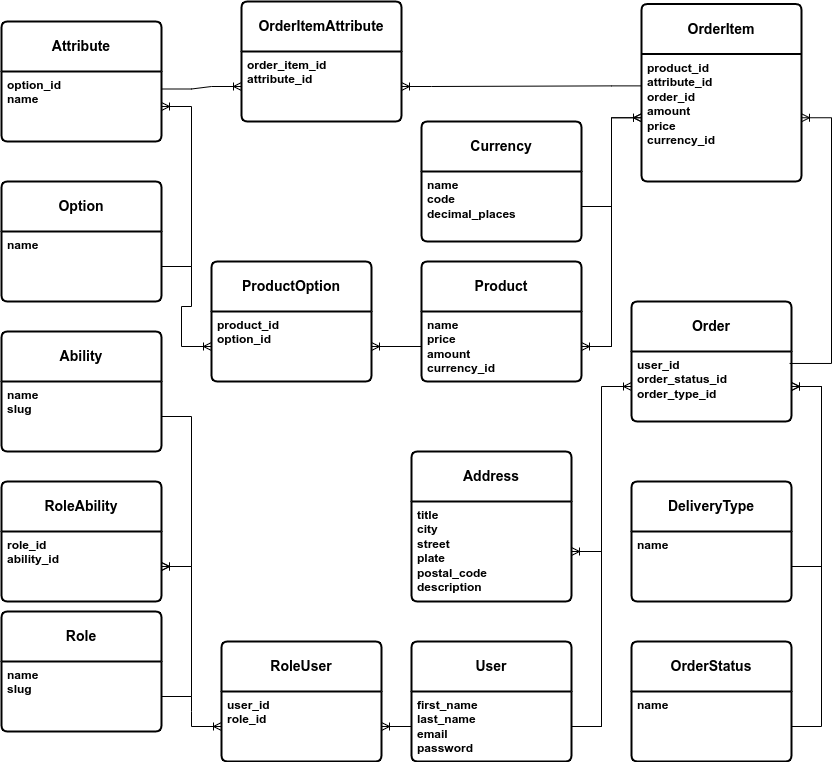
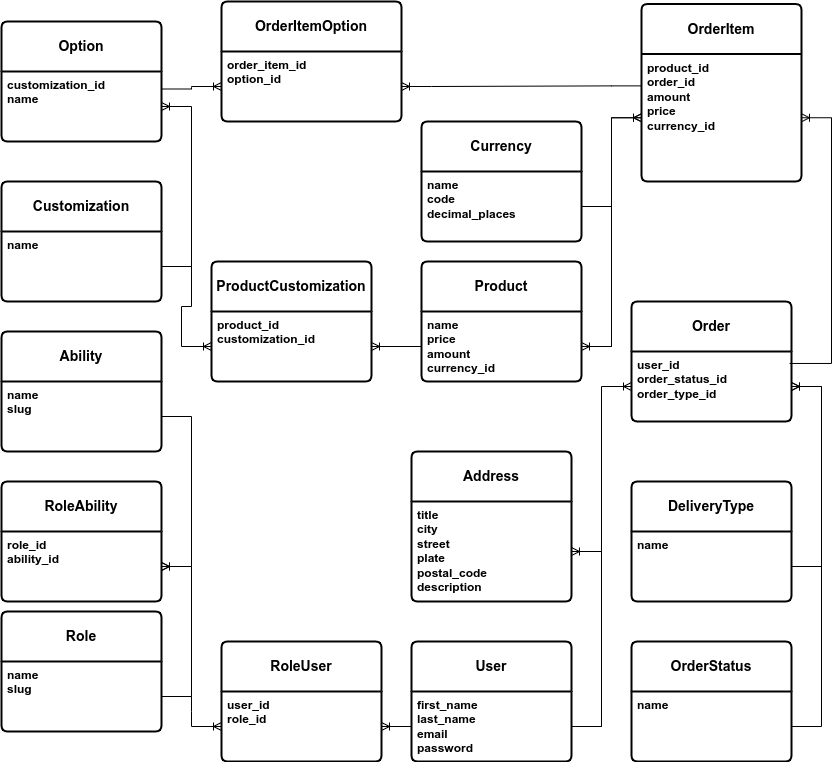
Feature: customization options for a product are showing in the products list

diff --git a/backend/tests/Feature/Products/ListTest.php b/backend/tests/Feature/Products/ListTest.php
@@ -2,8 +2,11 @@
 
 namespace Tests\Feature\Products;
 
+use App\Models\Customization;
+use App\Models\Option;
 use App\Models\Product;
 use App\Models\User;
+use App\Repositories\ProductRepository;
 use Illuminate\Foundation\Testing\RefreshDatabase;
 use App\Http\Resources\Api\V1\Products\List;
 use Illuminate\Testing\TestResponse;
@@ -14,6 +17,27 @@ class ListTest extends TestCase
 {
     use RefreshDatabase;
     use LetsBeTrait;
+
+    public function test_product_customization_options_should_be_shown_as_expected(): void
+    {
+        $repository = new ProductRepository();
+        $customization = createCustomization([Customization::NAME => 'Size']);
+        array_map(fn ($option) => createOption([
+            Option::NAME => $option,
+            Option::CUSTOMIZATION => $customization,
+        ]), $options = ['small', 'medium', 'large']);
+        $repository->addCustomization(createProduct(), $customization);
+        $this->login();
+
+        $item = $this->request()->json(
+            $this->join([List\PaginatorCollection::DATA, 0])
+        );
+
+        $this->assertSame([[
+            List\CustomizationResource::NAME => $customization->getName(),
+            List\CustomizationResource::OPTIONS => $options,
+        ]], $item[List\ItemResource::CUSTOMIZATIONS]);
+    }
 
     public function test_each_product_needs_to_be_shown_in_proper_format(): void
     {

diff --git a/backend/app/Http/Resources/Api/V1/Products/List/ItemResource.php b/backend/app/Http/Resources/Api/V1/Products/List/ItemResource.php
@@ -2,7 +2,9 @@
 
 namespace App\Http\Resources\Api\V1\Products\List;
 
+use App\Models\Customization;
 use App\Models\Product;
+use App\Repositories\ProductRepository;
 use Illuminate\Http\Request;
 use Illuminate\Http\Resources\Json\JsonResource;
 
@@ -12,9 +14,17 @@ class ItemResource extends JsonResource
     public const NAME = 'name';
     public const PRICE = 'price';
     public const AMOUNT = 'amount';
+    public const CUSTOMIZATIONS = 'customizations';
 
     /** @var Product */
     public $resource;
+    private readonly ProductRepository $productRepository;
+
+    public function __construct($resource)
+    {
+        parent::__construct($resource);
+        $this->productRepository = new ProductRepository();
+    }
 
     public function toArray(Request $request): array
     {
@@ -23,6 +33,9 @@ class ItemResource extends JsonResource
             self::NAME => $this->resource->getName(),
             self::PRICE => $this->resource->getPriceObject()->represent(),
             self::AMOUNT => $this->resource->getAmount(),
+            self::CUSTOMIZATIONS => $this->productRepository
+                ->getCustomizations($this->resource)
+                ->map(fn (Customization $c) => new CustomizationResource($c)),
         ];
     }
 }

diff --git a/backend/tests/Helpers/createFunctions.php b/backend/tests/Helpers/createFunctions.php
@@ -3,6 +3,8 @@
 use App\Models\Ability;
 use App\Models\Currency;
 use App\Models\DeliveryType;
+use App\Models\Customization;
+use App\Models\Option;
 use App\Models\Order;
 use App\Models\OrderItem;
 use App\Models\OrderStatus;
@@ -10,6 +12,36 @@ use App\Models\Product;
 use App\Models\Role;
 use App\Models\User;
 use Illuminate\Database\Eloquent\Collection;
+
+if (!function_exists('createOption')) {
+    function createOption(
+        array $fields = [],
+        int $count = null,
+    ): Option|Collection {
+        $factory = Option::factory();
+
+        if ($count) {
+            $factory = $factory->count($count);
+        }
+
+        return $factory->create($fields);
+    }
+}
+
+if (!function_exists('createCustomization')) {
+    function createCustomization(
+        array $fields = [],
+        int $count = null,
+    ): Customization|Collection {
+        $factory = Customization::factory();
+
+        if ($count) {
+            $factory = $factory->count($count);
+        }
+
+        return $factory->create($fields);
+    }
+}
 
 if (!function_exists('createDeliveryType')) {
     function createDeliveryType(

diff --git a/backend/database/migrations/2023_08_03_183343_create_option_product_table.php b/backend/database/migrations/2023_08_03_183343_create_option_product_table.php
@@ -1,0 +1,35 @@
+<?php
+
+use App\Contracts\Models\ProductCustomizationContract;
+use App\Models\Customization;
+use App\Models\Product;
+use Illuminate\Database\Migrations\Migration;
+use Illuminate\Database\Schema\Blueprint;
+use Illuminate\Support\Facades\Schema;
+
+return new class () extends Migration implements ProductCustomizationContract {
+    /**
+     * Run the migrations.
+     */
+    public function up(): void
+    {
+        Schema::create(self::TABLE, function (Blueprint $table): void {
+            $table->id(self::ID);
+            $table->foreignIdFor(Customization::class, self::CUSTOMIZATION);
+            $table->foreignIdFor(Product::class, self::PRODUCT);
+            $table->timestamps();
+        });
+    }
+
+    /**
+     * Reverse the migrations.
+     */
+    public function down(): void
+    {
+        Schema::table(self::TABLE, function (Blueprint $table): void {
+            $table->dropForeignIdFor(Customization::class, self::CUSTOMIZATION);
+            $table->dropForeignIdFor(Product::class, self::PRODUCT);
+        });
+        Schema::dropIfExists(self::TABLE);
+    }
+};

diff --git a/backend/app/Models/Product.php b/backend/app/Models/Product.php
@@ -5,6 +5,7 @@ namespace App\Models;
 use App\Contracts\Models\Fields\AmountContract;
 use App\Contracts\Models\Fields\IdContract;
 use App\Contracts\Models\Fields\NameContract;
+use App\Contracts\Models\ProductCustomizationContract;
 use App\Traits\Models\Fields\HasAmountTrait;
 use App\Traits\Models\Fields\HasIdTrait;
 use App\Traits\Models\Fields\HasNameTrait;
@@ -12,6 +13,7 @@ use App\Traits\Models\HasPriceAndCurrencyTrait;
 use App\Traits\Models\HasPriceObjectPropertyTrait;
 use Illuminate\Database\Eloquent\Factories\HasFactory;
 use Illuminate\Database\Eloquent\Model;
+use Illuminate\Database\Eloquent\Relations\BelongsToMany;
 
 class Product extends Model implements
     IdContract,
@@ -48,5 +50,13 @@ class Product extends Model implements
     protected function getCurrencyName(): string
     {
         return self::CURRENCY;
+    }
+
+    public function customizations(): BelongsToMany
+    {
+        return $this->belongsToMany(
+            Customization::class,
+            ProductCustomizationContract::TABLE
+        );
     }
 }

diff --git a/backend/app/Http/Resources/Api/V1/Products/List/CustomizationResource.php b/backend/app/Http/Resources/Api/V1/Products/List/CustomizationResource.php
@@ -1,0 +1,35 @@
+<?php
+
+namespace App\Http\Resources\Api\V1\Products\List;
+
+use App\Models\Customization;
+use App\Models\Option;
+use App\Repositories\CustomizationRepository;
+use Illuminate\Http\Request;
+use Illuminate\Http\Resources\Json\JsonResource;
+
+class CustomizationResource extends JsonResource
+{
+    public const NAME = 'name';
+    public const OPTIONS = 'options';
+
+    /** @var Customization */
+    public $resource;
+    private readonly CustomizationRepository $customizationRepository;
+
+    public function __construct($resource)
+    {
+        parent::__construct($resource);
+        $this->customizationRepository = new CustomizationRepository();
+    }
+
+    public function toArray(Request $request): array
+    {
+        return [
+            self::NAME => $this->resource->getName(),
+            self::OPTIONS => $this->customizationRepository
+                ->getOptions($this->resource)
+                ->map(fn (Option $o) => $o->getName()),
+        ];
+    }
+}

diff --git a/backend/database/migrations/2023_08_03_140144_create_option_attributes_table.php b/backend/database/migrations/2023_08_03_140144_create_option_attributes_table.php
@@ -1,0 +1,33 @@
+<?php
+
+use App\Models\Customization;
+use App\Models\Option;
+use Illuminate\Database\Migrations\Migration;
+use Illuminate\Database\Schema\Blueprint;
+use Illuminate\Support\Facades\Schema;
+
+return new class () extends Migration {
+    /**
+     * Run the migrations.
+     */
+    public function up(): void
+    {
+        Schema::create(Option::TABLE, function (Blueprint $table): void {
+            $table->id(Option::ID);
+            $table->string(Option::NAME);
+            $table->foreignIdFor(Customization::class, Option::CUSTOMIZATION);
+            $table->timestamps();
+        });
+    }
+
+    /**
+     * Reverse the migrations.
+     */
+    public function down(): void
+    {
+        Schema::table(Option::TABLE, function (Blueprint $table): void {
+            $table->dropForeignIdFor(Customization::class, Option::CUSTOMIZATION);
+        });
+        Schema::dropIfExists(Option::TABLE);
+    }
+};

diff --git a/backend/app/Repositories/ProductRepository.php b/backend/app/Repositories/ProductRepository.php
@@ -4,12 +4,26 @@ namespace App\Repositories;
 
 use App\ExceptionMessages\InvalidOrderItemAmountMessage;
 use App\Exceptions\Models\InvalidOrderItemAmountException;
+use App\Models\Customization;
 use App\Models\Product;
 use App\ValueObjects\Shared\PriceInterface;
 use Illuminate\Database\Eloquent\Collection;
+use Illuminate\Database\Eloquent\Model;
 
 class ProductRepository
 {
+    public function addCustomization(
+        Product $product,
+        Customization $customization
+    ): Model|Customization {
+        return $product->customizations()->save($customization);
+    }
+
+    public function getCustomizations(Product $product): Collection
+    {
+        return $product->customizations;
+    }
+
     public function getAvailable(): Collection
     {
         return Product::where(Product::AMOUNT, '>', 0)->get();

diff --git a/backend/app/Models/Customization.php b/backend/app/Models/Customization.php
@@ -1,0 +1,28 @@
+<?php
+
+namespace App\Models;
+
+use App\Contracts\Models\Fields\IdContract;
+use App\Contracts\Models\Fields\NameContract;
+use App\Traits\Models\Fields\HasIdTrait;
+use App\Traits\Models\Fields\HasNameTrait;
+use Illuminate\Database\Eloquent\Factories\HasFactory;
+use Illuminate\Database\Eloquent\Model;
+use Illuminate\Database\Eloquent\Relations\HasMany;
+
+class Customization extends Model implements IdContract, NameContract
+{
+    use HasFactory;
+    use HasIdTrait;
+    use HasNameTrait;
+
+    public const TABLE = 'customizations';
+
+    protected $table = self::TABLE;
+    protected $primaryKey = self::ID;
+
+    public function options(): HasMany
+    {
+        return $this->hasMany(Option::class);
+    }
+}

diff --git a/backend/database/migrations/2023_08_03_135247_create_options_table.php b/backend/database/migrations/2023_08_03_135247_create_options_table.php
@@ -1,0 +1,28 @@
+<?php
+
+use App\Models\Customization;
+use Illuminate\Database\Migrations\Migration;
+use Illuminate\Database\Schema\Blueprint;
+use Illuminate\Support\Facades\Schema;
+
+return new class () extends Migration {
+    /**
+     * Run the migrations.
+     */
+    public function up(): void
+    {
+        Schema::create(Customization::TABLE, function (Blueprint $table): void {
+            $table->id(Customization::ID);
+            $table->string(Customization::NAME);
+            $table->timestamps();
+        });
+    }
+
+    /**
+     * Reverse the migrations.
+     */
+    public function down(): void
+    {
+        Schema::dropIfExists(Customization::TABLE);
+    }
+};

diff --git a/backend/app/Models/Option.php b/backend/app/Models/Option.php
@@ -1,0 +1,23 @@
+<?php
+
+namespace App\Models;
+
+use App\Contracts\Models\Fields\IdContract;
+use App\Contracts\Models\Fields\NameContract;
+use App\Traits\Models\Fields\HasIdTrait;
+use App\Traits\Models\Fields\HasNameTrait;
+use Illuminate\Database\Eloquent\Factories\HasFactory;
+use Illuminate\Database\Eloquent\Model;
+
+class Option extends Model implements IdContract, NameContract
+{
+    use HasFactory;
+    use HasIdTrait;
+    use HasNameTrait;
+
+    public const TABLE = 'options';
+    public const CUSTOMIZATION = 'customization_id';
+
+    protected $table = self::TABLE;
+    protected $primaryKey = self::ID;
+}

diff --git a/backend/database/factories/OptionFactory.php b/backend/database/factories/OptionFactory.php
@@ -1,0 +1,26 @@
+<?php
+
+namespace Database\Factories;
+
+use App\Models\Customization;
+use App\Models\Option;
+use Illuminate\Database\Eloquent\Factories\Factory;
+
+/**
+ * @extends \Illuminate\Database\Eloquent\Factories\Factory<\App\Models\Option>
+ */
+class OptionFactory extends Factory
+{
+    /**
+     * Define the model's default state.
+     *
+     * @return array<string, mixed>
+     */
+    public function definition(): array
+    {
+        return [
+            Option::NAME => fake()->name(),
+            Option::CUSTOMIZATION => Customization::factory(),
+        ];
+    }
+}
